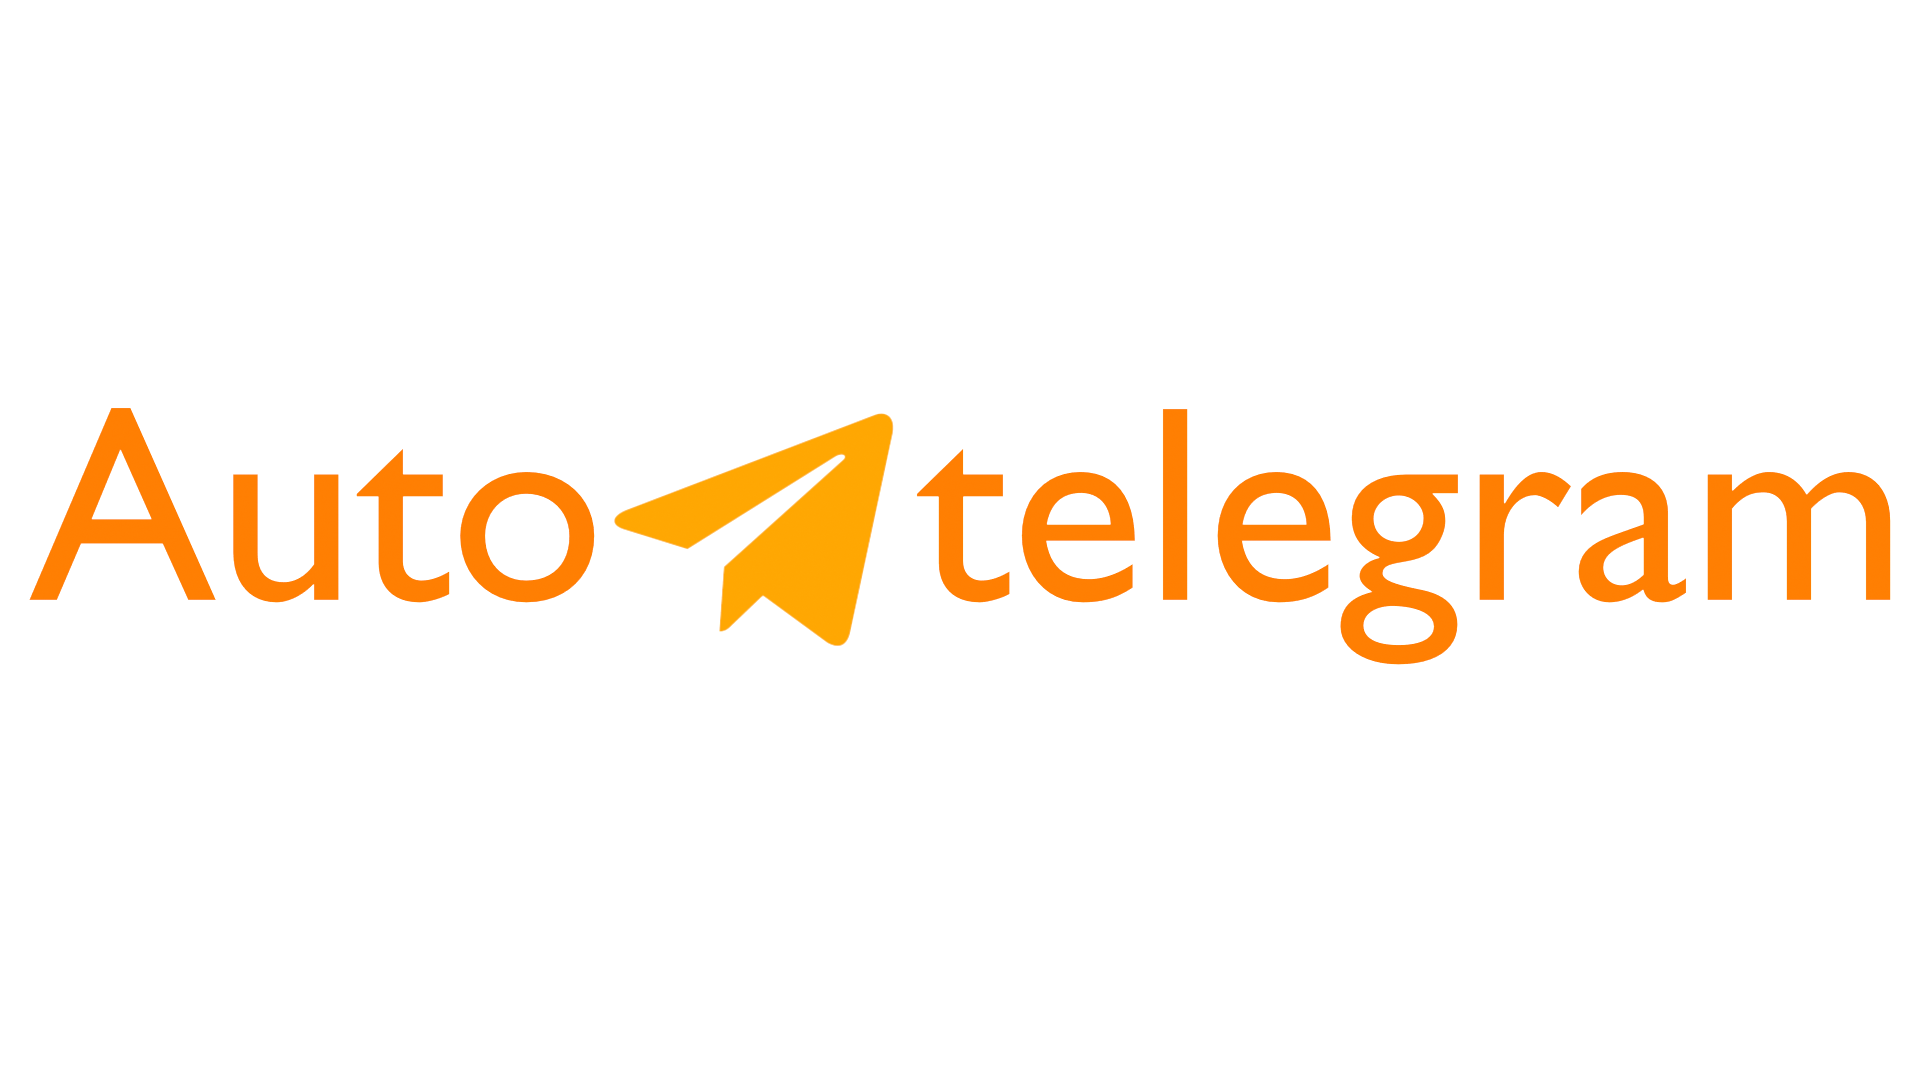
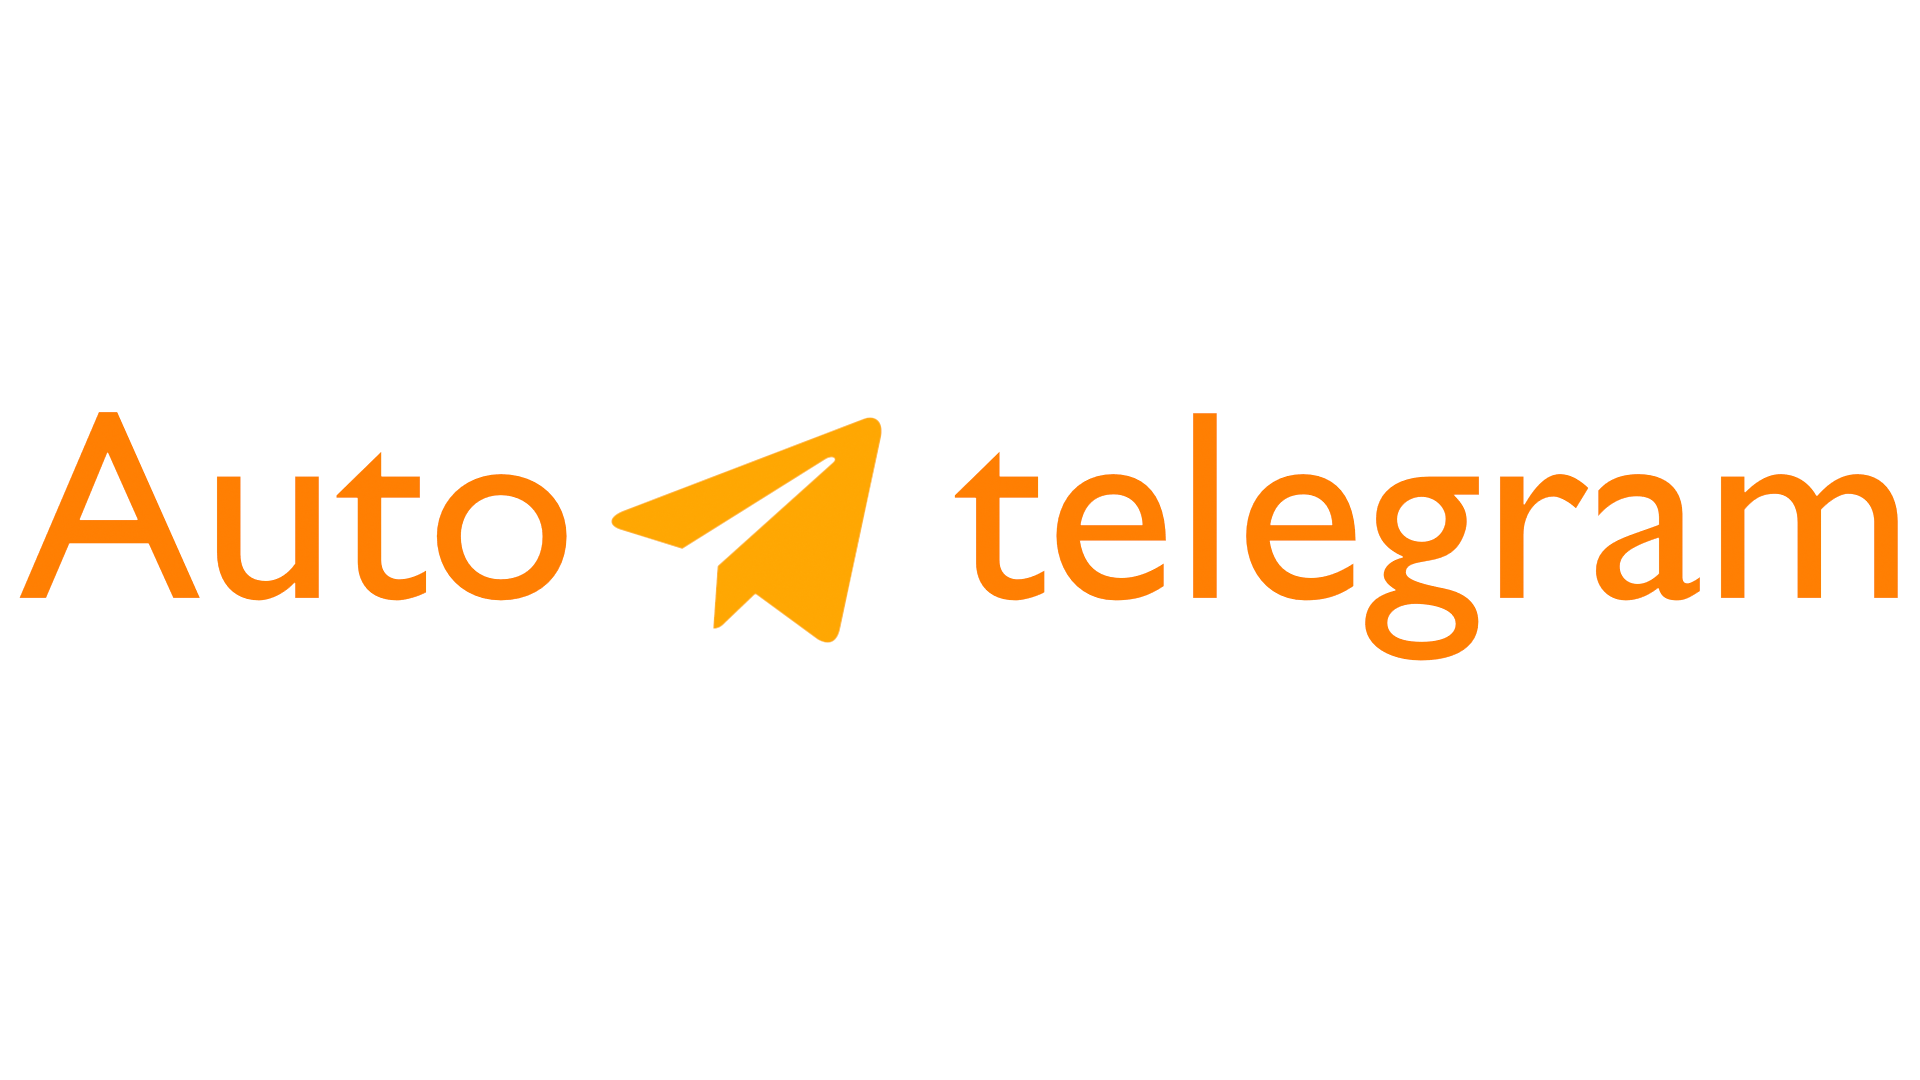
update autotelegram docs
- replace autobot with autotelegram
- add autotelegram logo
- fix typos
- replace broken links

diff --git a/docs/index.md b/docs/index.md
@@ -1,13 +1,13 @@
 <!---The image (logo) will only appear in light mode but not dark mode-->
-![Logo](assets/autobot.png)
+![Logo](assets/autotelegram.png)
 
-## **Welcome To Autobot Documentation!**
+## **Welcome To Autotelegram Documentation!**
 > 1 min read
 
-If your reading this documentation, Our team autobot <b>Open Source Kampala Chapter</b> is welcoming you to this official bot that is deployed
+If your reading this documentation, Our team Autotelegram <b>Open Source Kampala Chapter</b> is welcoming you to this official bot that is deployed
 with our telegram channel [here.](404.md) You can also subscrie to our newslater by clicking [here.](404.md). To get more updates for future
 release(s), check out our socials by clicking any of the links below; <br>
-  <a href="https://twitter.com/Oscaampala/(404.md)">
+  <a href="https://twitter.com/oscakampala">
    <img src="https://img.shields.io/badge/Twitter-blue?label=Twitter&logo=Twitter&style=for-the-badge" />
   </a>
   <a href="https://www.linkedin.com/in/kisakye-moses/">
@@ -18,15 +18,15 @@ release(s), check out our socials by clicking any of the links below; <br>
   </a>
 
 
-## **What Is Autobot?**
+## **What Is Autotelegram?**
 > 1 min read
 
-Autobot is a bot library targetted to build software bots for various platforms with ease of integration in mind.
+Autotelegram is a bot library targetted to build software bots for various platforms with ease of integration in mind.
 project still under active construction, so there's no proper documentation or support information to help that much. 
 To contribute to the project, please follow along with the issues being posted and also the discussions.
 ## **Requirements**
 > 1 min read <br>
-what you need to run autobot
+what you need to run Autotelegram
 
 ``` python
     pip install
